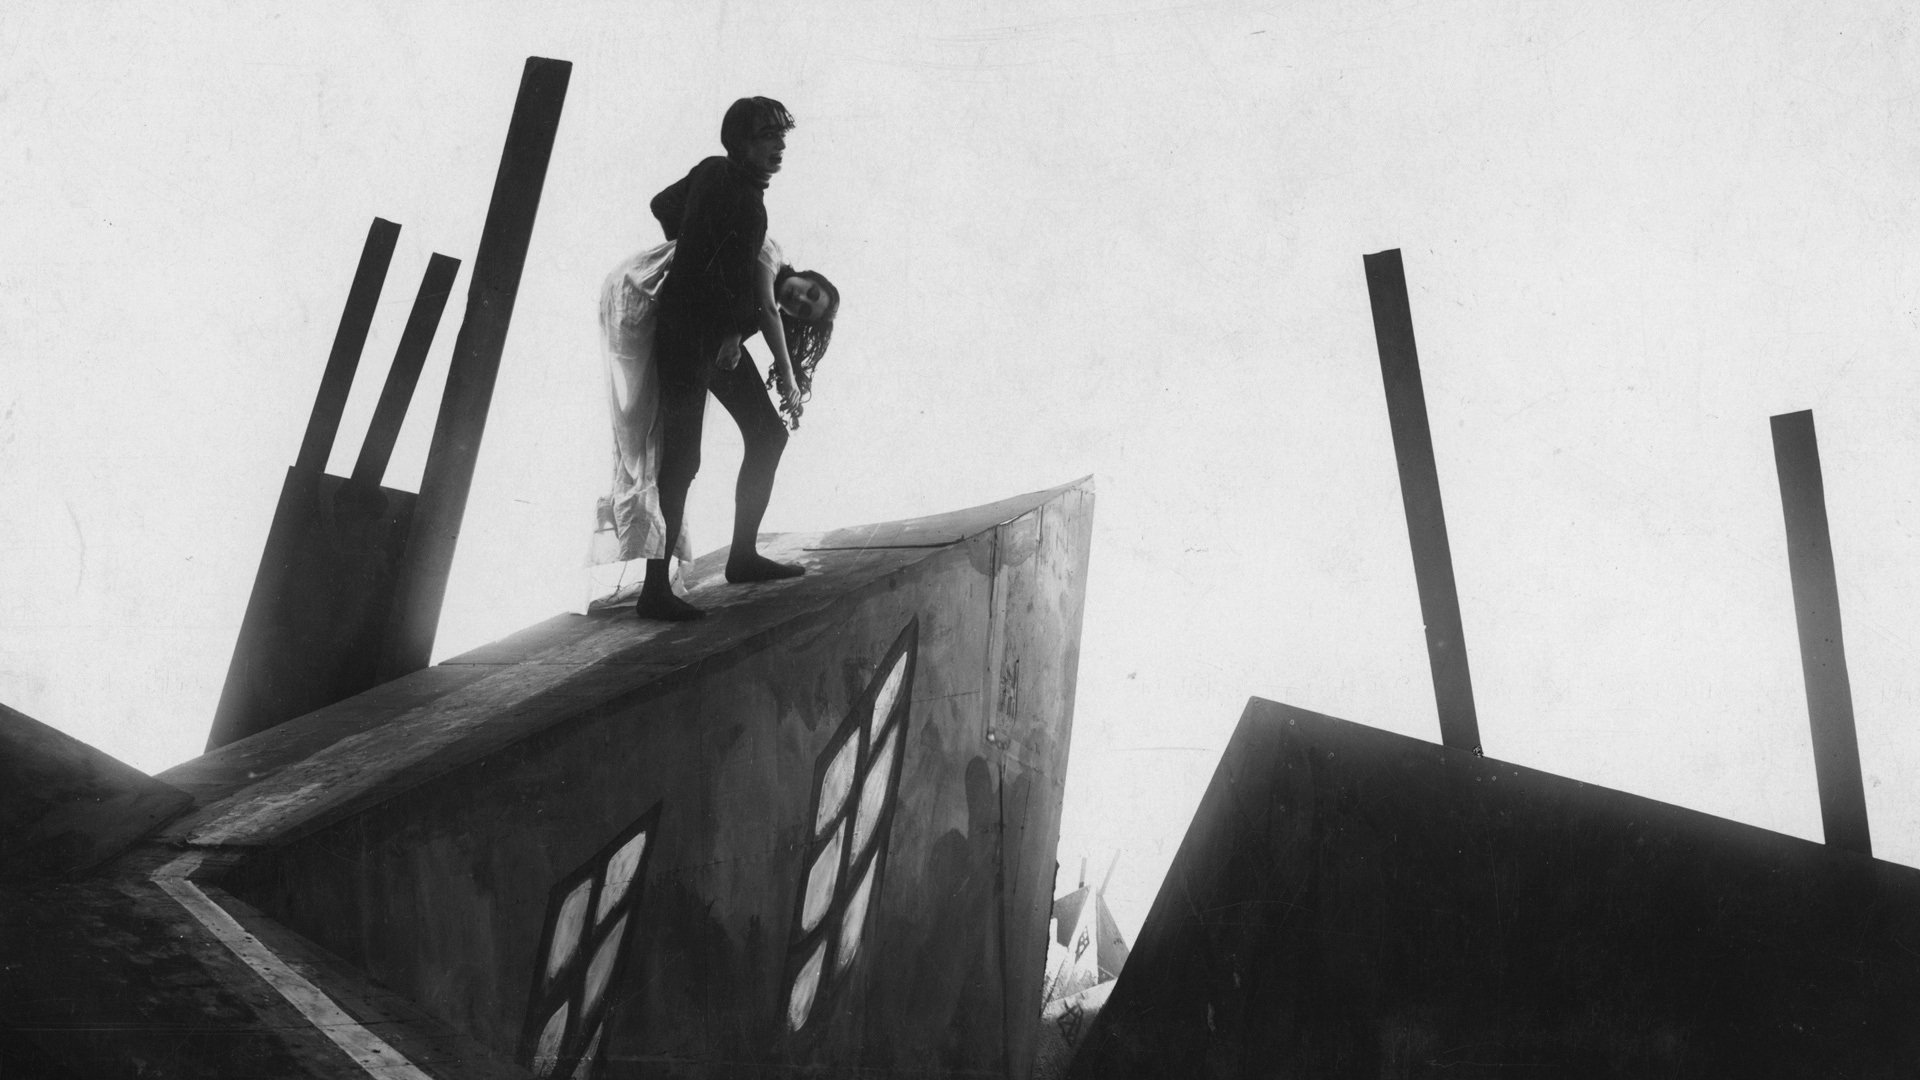
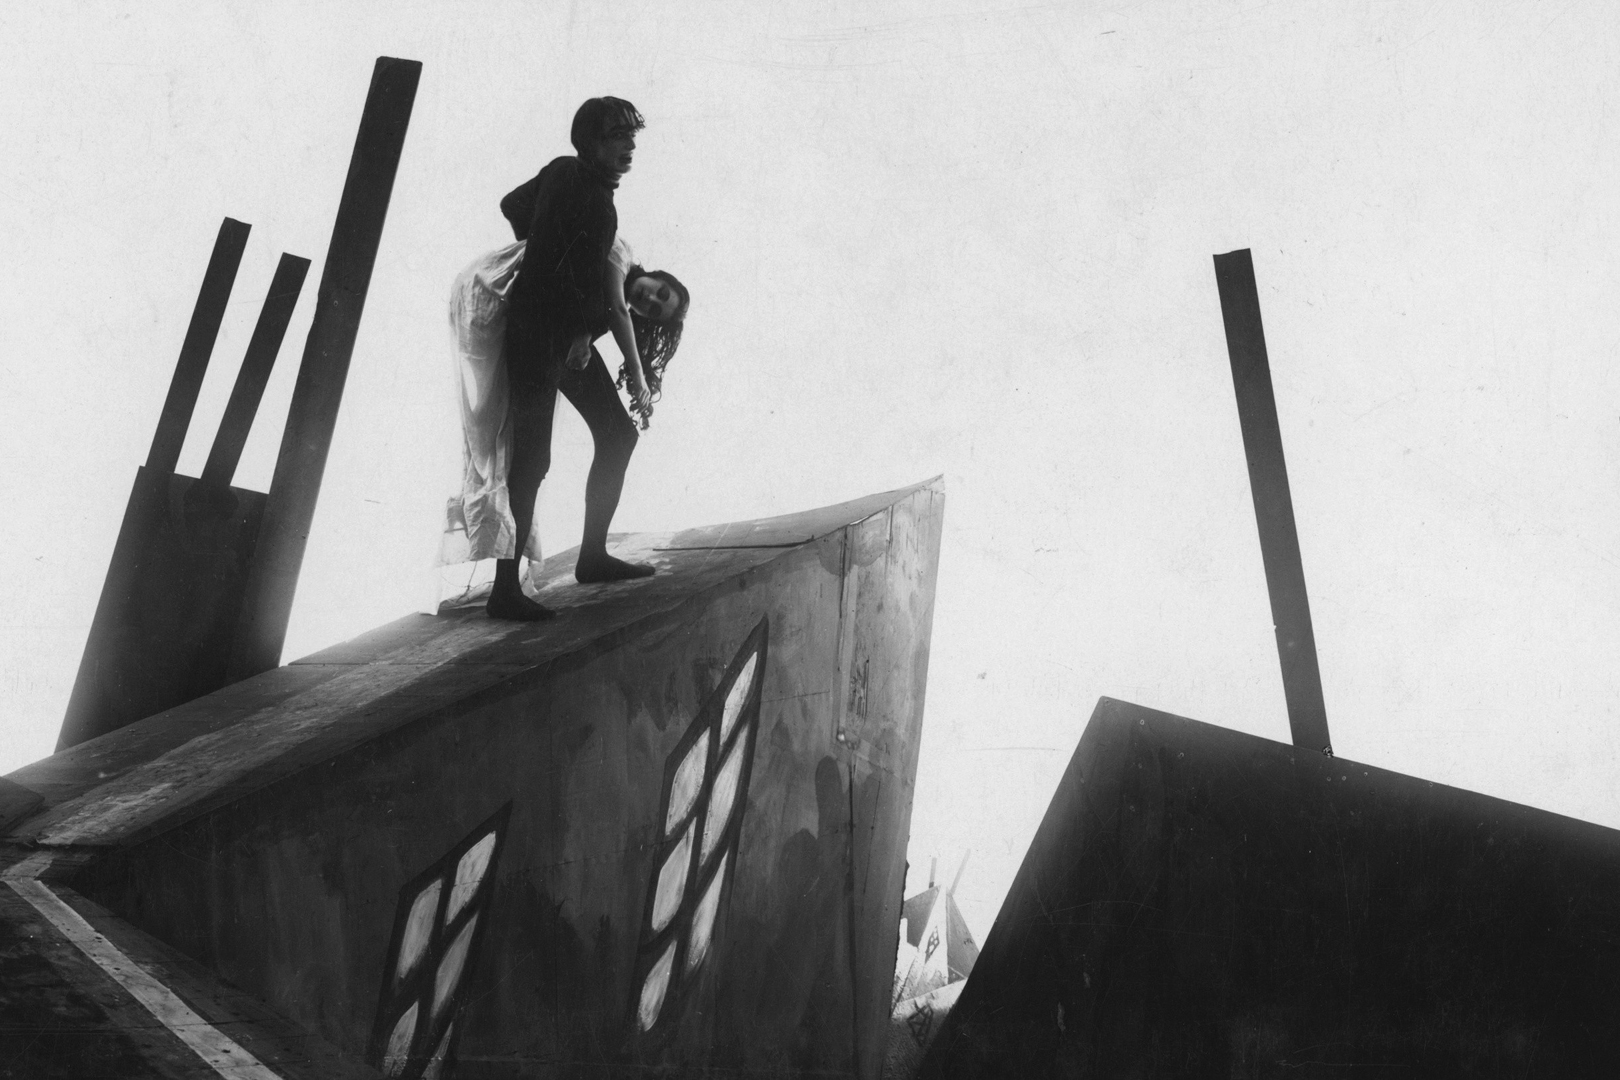
adding blur game

Changed region(s): [[0.0, 0.0306, 0.463, 1.0], [0.3704, 0.2139, 1.0, 0.9472]]

diff --git a/resources/index.html b/resources/index.html
@@ -8,7 +8,7 @@
 
 <!-- Custom stylesheets-->
     <link rel="stylesheet" href="../../node_modules/font-awesome/css/font-awesome.min.css"/>
-    <link rel="stylesheet" href="../../css/styles.css">
+    <link rel="stylesheet" href="../css/styles.css">
 
     <title>Film Art: Resources</title>
 </head>
@@ -47,8 +47,18 @@
 
                <div class="m-5">
                    <p>
-                    Uh-oh! This page has not yet been created. Would you like to go back to the <a href="../index.html">homepage</a>? 
+                    Uh-oh! This page has not yet been created. You can go back to the <a href="../index.html">homepage</a> or try guessing the movie from the still below! 
                    </p>
+
+                   <div class="game">
+                       <img id="blurImageContainer" src="">
+                        <p>Score: <span id="currentScore"></span></p>
+                   </div>
+                   <button type="button" class="btn btn-outline-dark" onclick="blurGame()">Start Game!</button>
+                   <fieldset>
+                   <input type="text" name="guess" value="" id="blurGuess" required>
+                   <button type="button" class="btn btn-outline-dark btn-accent" onclick="checkBlurGuess()">Guess!</button>
+                </fieldset>
                </div>
 
             </div>
@@ -56,8 +66,40 @@
         </div>
     </div>
   
-   
-
+   <!-- modals for game guesses -->
+    <div class="modal fade" id="successModal" tabindex="-1" aria-labelledby="successLabel" aria-hidden="true">
+        <div class="modal-dialog modal-dialog-centered">
+            <div class="modal-content">
+                <div class="modal-header bg-secondary">
+                    <h5 class="modal-title" id="successLabel">Success</h5>
+                </div>
+                <div class="modal-body">
+                    <p>You guessed correctly! The still is from <span id="movieStill"></span>. Your final score was <span id="finalScore"></span>.</p>
+                </div>
+                <div class="modal-footer">      
+                    <!--  continue game -->
+                    <button type="button" class="btn mr-2 px-4 btn-primary btn-outline-secondary text-white" id="ok-button" data-dismiss="modal">OK</button>              
+                </div>
+            </div>
+        </div>
+    </div>
+    <div class="modal fade" id="failModal" tabindex="-1" aria-labelledby="failLabel" aria-hidden="true">
+        <div class="modal-dialog modal-dialog-centered">
+            <div class="modal-content">
+                <div class="modal-header bg-secondary">
+                    <h5 class="modal-title" id="failLabel">Guess again!</h5>
+                </div>
+                <div class="modal-body">
+                    <p>Your guess is not correct. Make sure you're spelling everything correctly, and don't use any punctuation!"</p>
+                </div>
+                <div class="modal-footer">      
+                    <button type="button" class="btn mr-2 px-4 btn-primary btn-outline-secondary text-white" data-dismiss="modal" id="guess-again">Guess again!</button>
+                    <!-- reloads window -->
+                    <button type="button" class="btn mr-2 px-4 btn-primary btn-outline-secondary text-white" id="give-up">Give up.</button>                         
+                </div>
+            </div>
+        </div>
+    </div>
 
 
 
@@ -65,5 +107,7 @@
 <script src="https://code.jquery.com/jquery-3.5.1.slim.min.js" integrity="sha384-DfXdz2htPH0lsSSs5nCTpuj/zy4C+OGpamoFVy38MVBnE+IbbVYUew+OrCXaRkfj" crossorigin="anonymous"></script>
 <script src="https://cdn.jsdelivr.net/npm/bootstrap@4.5.3/dist/js/bootstrap.bundle.min.js" integrity="sha384-ho+j7jyWK8fNQe+A12Hb8AhRq26LrZ/JpcUGGOn+Y7RsweNrtN/tE3MoK7ZeZDyx" crossorigin="anonymous"></script>
 
+<!-- JS for game -->
+<script src="../js/games.js"></script>
 </body>
 </html>

diff --git a/js/games.js b/js/games.js
@@ -1,0 +1,72 @@
+// blur game 
+
+    // create objects to hold images along with movie titles
+    let img1 = {url: "../img/caligari.jpg", title:"the cabinet of dr caligari", year : "1920"};
+    let img2 = {url: "../img/cinematography.jpg", title: "vertigo"};
+    let img3 = {url: "../img/citizen.jpg", title: "citizen kane"};
+    let img4 = {url: "../img/editing.jpg", title: "alien"};
+    let img5 = {url: "../img/genre.jpg", title: "gentlemen prefer blondes"};
+    let img6 = {url: "../img/narrative.jpg", title: "memento"};
+    let img7 = {url: "../img/mise-en-scene.jpg", title: "the fifth element"};
+    // store image objects in array
+    const blurImgArray = [img1, img2, img3, img4, img5, img6, img7];
+
+    // pass random image from array to html img element
+    const imgElement = document.querySelector("#blurImageContainer");
+    const imgIndex = Math.floor((Math.random()*7));
+    imgElement.src = blurImgArray[imgIndex].url;
+
+    // apply initial blur to image
+    let blurVal = 50;
+    let blurAmount = "blur(" + blurVal + "px)";
+    imgElement.style.filter = blurAmount;
+
+    let score = 100;
+    let pauseTimer;
+
+function blurGame() {
+    // set up timer
+    pauseTimer = setInterval(blurTimer, 5000);
+
+}
+   
+   function blurTimer() {
+       if (blurVal > 0) {
+       blurVal -= 5;
+       score -= 10;
+       blurAmount = "blur(" + blurVal + "px)";
+       imgElement.style.filter = blurAmount;
+       $("#currentScore").text(score);
+       } else {
+           clearInterval(pauseTimer);
+           alert("You ran out of time!");
+       }
+   }
+    
+    // function runs on button click
+    function checkBlurGuess() {
+        const guess = $("#blurGuess:text").val().toLowerCase();
+        clearInterval(pauseTimer);
+        if (guess === "") {
+            blurTimer();
+            return;
+        } else if (guess === blurImgArray[imgIndex].title) {
+            console.log("success");
+            $("#movieStill").text(blurImgArray[imgIndex].title);
+            $("#finalScore").text(score);
+            $("#successModal").modal();
+        } else {
+           $("failModal").modal();
+            
+            }
+            
+        
+    } 
+
+    $("#ok-button").click(function() {
+        imgElement.style.filter = "blur(0px)";
+        $("#successModal").modal("hide");
+    })
+
+    // add event handlers to each button on modal
+

diff --git a/learning/games.html b/learning/games.html
@@ -61,19 +61,13 @@
 
                             </div>
                            
-                            <div class="clearfix m-5">
-                                <button class="btn btn-lg btn-outline-secondary btn-dark float-right" onclick="getNextTab()">Next Quiz</button>
-                            </div>
                         </div>
                         <div class="tab-pane fade show" id="timeline" role="tabpanel" aria-labelledby="timeline-tab">
                             <p class="text-center mb-3">Game instructions go here.</p>
                             <div id="timeline">
                                 
                             </div>
-                            <div class="clearfix m-5">
-                                <button class="btn btn-lg btn-outline-secondary btn-dark float-left" onclick="getPreviousTab()">Previous Quiz</button>
-                                <button class="btn btn-lg btn-outline-secondary btn-dark float-right" onclick="getNextTab()">Next Quiz</button>
-                            </div>
+                            
                         </div>
                        
                         <div class="tab-pane fade show" id="descramble" role="tabpanel" aria-labelledby="descramble-tab">
@@ -81,9 +75,7 @@
                             <div id="descramble">
                                 
                             </div>
-                            <div class="clearfix m-5">
-                                <button class="btn btn-lg btn-outline-secondary btn-dark float-left" onclick="getPreviousTab()">Previous Quiz</button>
-                            </div>
+                            
                         </div>
                     </div>
             

diff --git a/css/styles.css b/css/styles.css
@@ -7426,6 +7426,18 @@ header {
     border-right: 1px solid #1f2c30;
     border-bottom: none; } }
 
+.game {
+  position: relative;
+  width: 600px;
+  height: 400px;
+  border: 2px double #1f2c30;
+  padding: auto; }
+
+#blurImageContainer {
+  position: absolute;
+  width: 537px;
+  height: 358px; }
+
 @media only screen and (min-width: 768px) {
   .learn-banner {
     height: 100%; }

diff --git a/css/styles.scss b/css/styles.scss
@@ -235,6 +235,19 @@ header {
     }
 }
 
+.game {
+    position: relative;
+    width: 600px;
+    height: 400px;
+    border: 2px double $dark;
+    padding: auto;
+}
+#blurImageContainer {
+    position: absolute;
+    width: 537px;
+    height: 358px;
+}
+
 // for md+ vps
 @media only screen and (min-width:768px) {
     // learning portal background takes up full height
